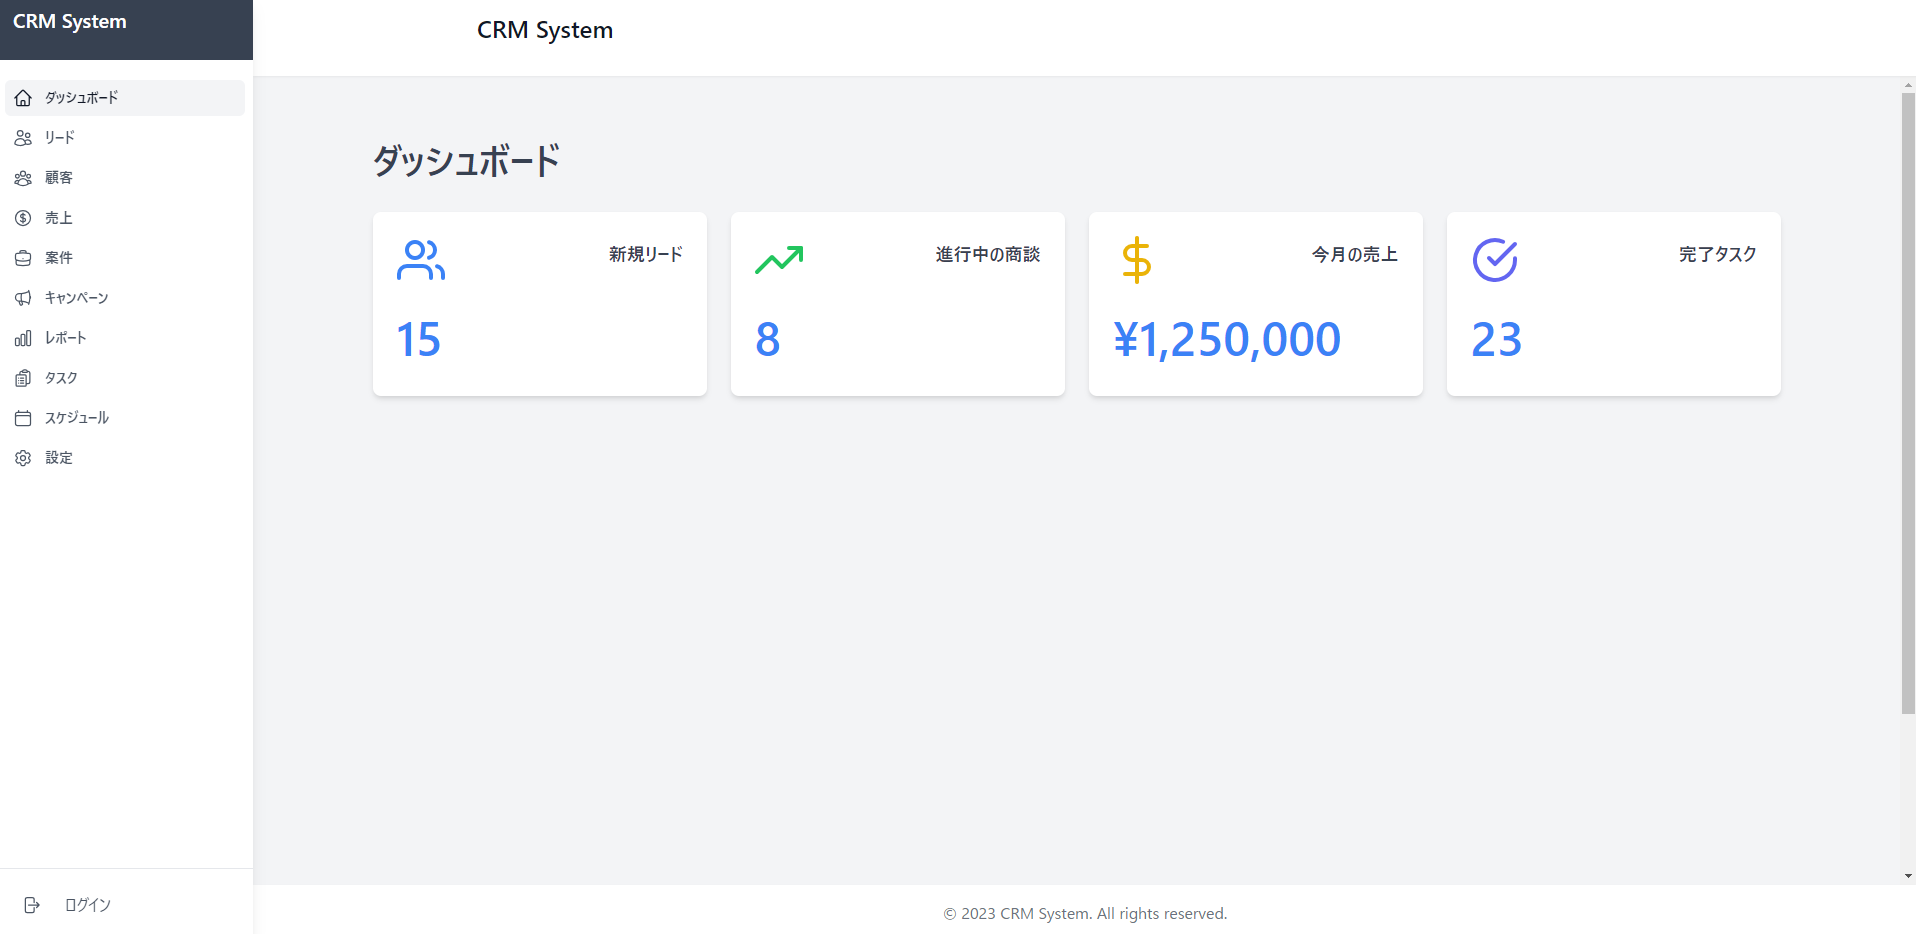
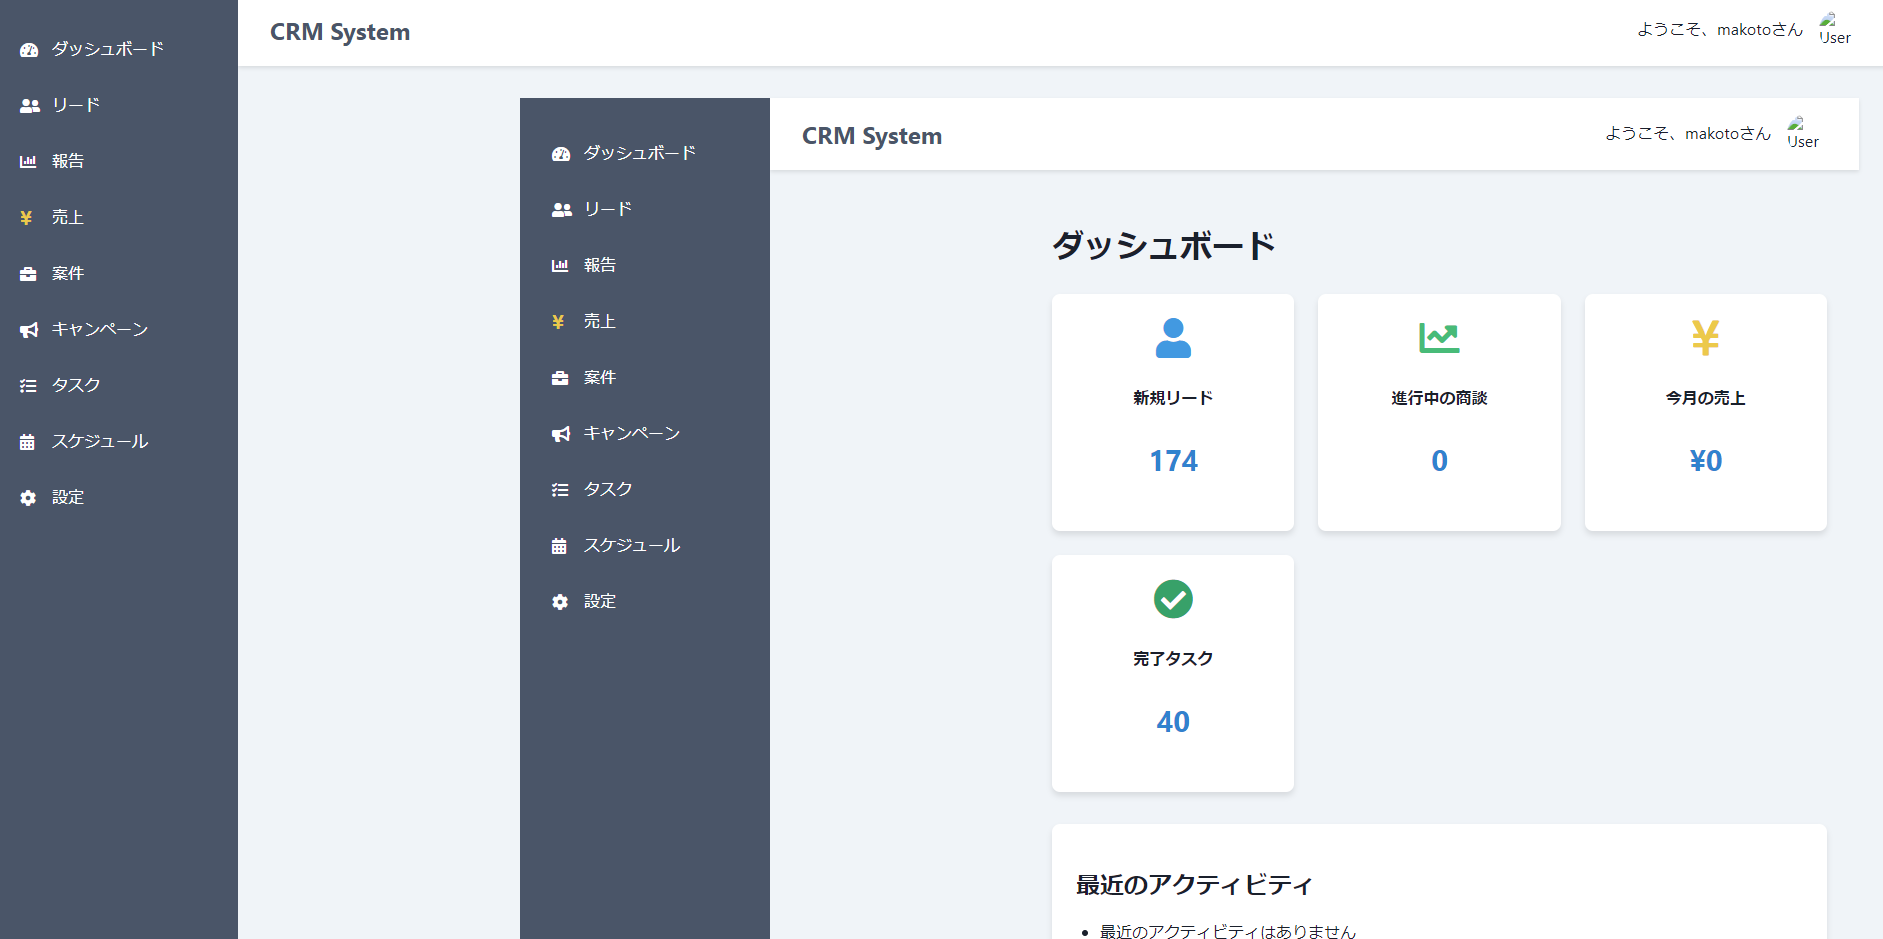
Agent query: Is the navigation bar visible and functioning correctly on the dashboard page?

diff --git a/templates/dashboard.html b/templates/dashboard.html
@@ -1,64 +1,37 @@
 {% extends "base.html" %}
 {% block title %}ダッシュボード{% endblock %}
 {% block content %}
-<div class="dashboard-container">
-    <header class="header">
-        <div class="logo">CRM System</div>
-        <div class="user-profile">
-            <span>ようこそ、{{ current_user.username }}さん</span>
-            <img src="{{ url_for('static', filename='images/default-avatar.png') }}" alt="User Avatar" class="avatar">
-        </div>
-    </header>
-    <nav class="sidebar">
-        <ul>
-            <li><a href="{{ url_for('main.dashboard') }}"><i class="fas fa-tachometer-alt"></i> ダッシュボード</a></li>
-            <li><a href="{{ url_for('leads.list_leads') }}"><i class="fas fa-user-friends"></i> リード</a></li>
-            <li><a href="{{ url_for('reports.index') }}"><i class="fas fa-chart-bar"></i> 報告</a></li>
-            <li><a href="#"><i class="fas fa-yen-sign"></i> 売上</a></li>
-            <li><a href="#"><i class="fas fa-briefcase"></i> 案件</a></li>
-            <li><a href="#"><i class="fas fa-bullhorn"></i> キャンペーン</a></li>
-            <li><a href="{{ url_for('tasks.list_tasks') }}"><i class="fas fa-tasks"></i> タスク</a></li>
-            <li><a href="{{ url_for('schedules.list_schedules') }}"><i class="fas fa-calendar-alt"></i> スケジュール</a></li>
-            <li><a href="#"><i class="fas fa-cog"></i> 設定</a></li>
-        </ul>
-    </nav>
-    <main class="main-content">
-        <h1>ダッシュボード</h1>
-        <div class="metric-cards">
-            <div class="metric-card">
-                <i class="fas fa-user"></i>
-                <h2>新規リード</h2>
-                <p class="metric-value">{{ new_leads_count }}</p>
-            </div>
-            <div class="metric-card">
-                <i class="fas fa-chart-line"></i>
-                <h2>進行中の商談</h2>
-                <p class="metric-value">{{ ongoing_opportunities_count }}</p>
-            </div>
-            <div class="metric-card">
-                <i class="fas fa-yen-sign"></i>
-                <h2>今月の売上</h2>
-                <p class="metric-value">¥{{ "{:,}".format(this_month_revenue) }}</p>
-            </div>
-            <div class="metric-card">
-                <i class="fas fa-check-circle"></i>
-                <h2>完了タスク</h2>
-                <p class="metric-value">{{ completed_tasks_count }}</p>
-            </div>
-        </div>
-        <section class="recent-activity">
-            <h2>最近のアクティビティ</h2>
-            <ul>
-                {% for activity in recent_activities %}
-                    <li>{{ activity }}</li>
-                {% else %}
-                    <li>最近のアクティビティはありません</li>
-                {% endfor %}
-            </ul>
-        </section>
-    </main>
-    <footer class="footer">
-        <p>&copy; 2024 CRM System. All rights reserved.</p>
-    </footer>
+<h1>ダッシュボード</h1>
+<div class="metric-cards">
+    <div class="metric-card">
+        <i class="fas fa-user"></i>
+        <h2>新規リード</h2>
+        <p class="metric-value">{{ new_leads_count }}</p>
+    </div>
+    <div class="metric-card">
+        <i class="fas fa-chart-line"></i>
+        <h2>進行中の商談</h2>
+        <p class="metric-value">{{ ongoing_opportunities_count }}</p>
+    </div>
+    <div class="metric-card">
+        <i class="fas fa-yen-sign"></i>
+        <h2>今月の売上</h2>
+        <p class="metric-value">¥{{ "{:,}".format(this_month_revenue) }}</p>
+    </div>
+    <div class="metric-card">
+        <i class="fas fa-check-circle"></i>
+        <h2>完了タスク</h2>
+        <p class="metric-value">{{ completed_tasks_count }}</p>
+    </div>
 </div>
+<section class="recent-activity">
+    <h2>最近のアクティビティ</h2>
+    <ul>
+        {% for activity in recent_activities %}
+            <li>{{ activity }}</li>
+        {% else %}
+            <li>最近のアクティビティはありません</li>
+        {% endfor %}
+    </ul>
+</section>
 {% endblock %}
